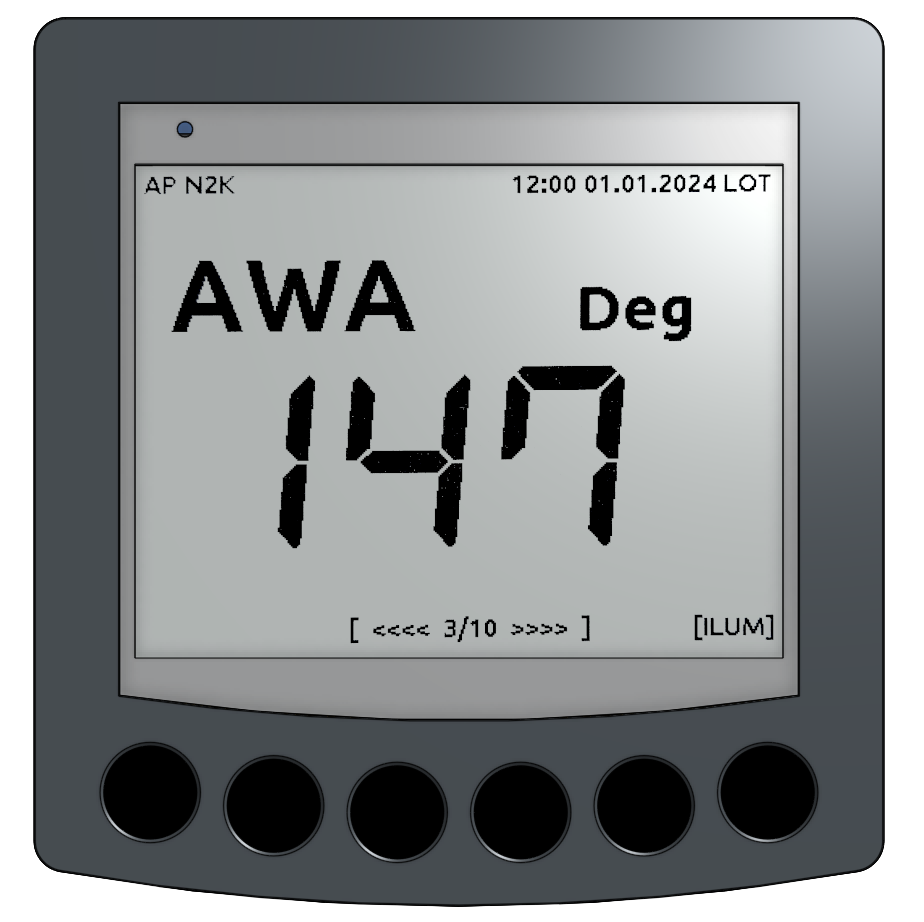
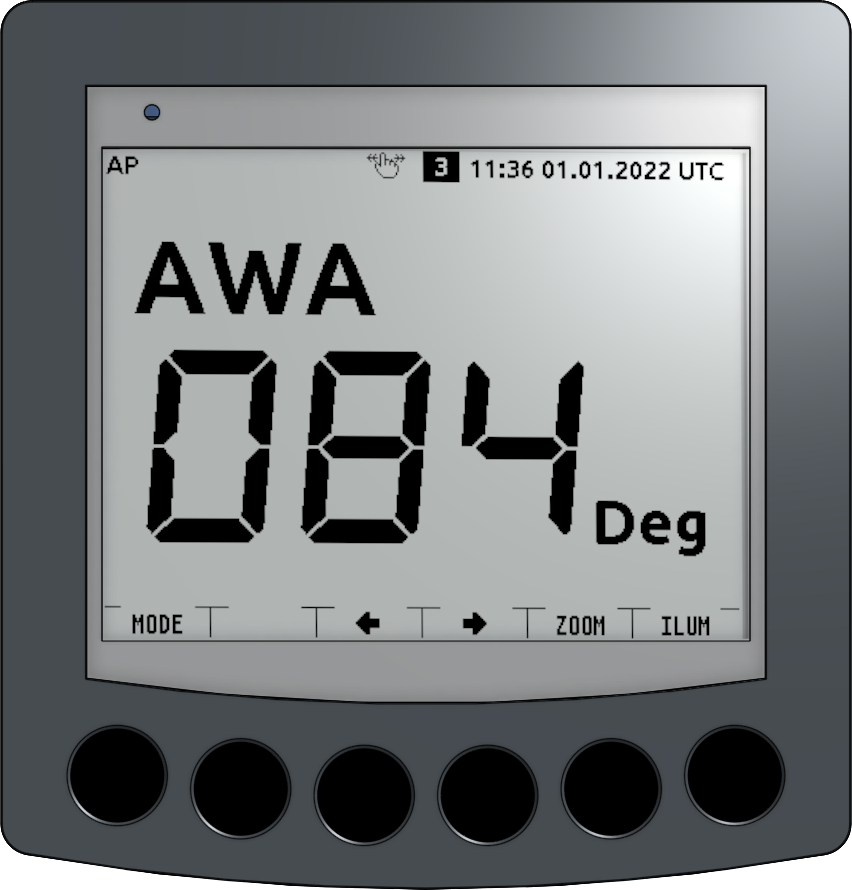
Actualise page OneValue, TwoValue, WindValue

diff --git a/docs/usermanual/configuration.rst b/docs/usermanual/configuration.rst
@@ -866,20 +866,51 @@ Abb.: Seite mit 4 Anzeigewerten
 OneValue
 ^^^^^^^^
 
-.. image:: /pics/OBP60_OneValue_tr.png
-             :scale: 30%
+.. list-table::
+   :widths: 50 50
+   :class: borderless
+
+   * - .. image:: ../pics/OBP60_OneValue.png
+          :scale: 30%
+     - .. image:: ../pics/OBP60_OneValue2.png
+          :scale: 30%
+
 Abb.: Anzeige OneValue
 
 Bei der OneValue-Anzeige kann ein beliebiger Messwert aus dem Datenpool angezeigt werden. Neben dem Messwert werden der Kurzbezeichner und die Einheit dargestellt.
 
+Über die Taste ``MODE`` kann für bestimmte Datentypen zusätzlich numerischen Anzeige eine grafische Anzeige des Datenverlaufs gewählt werden. Die Anzeige wechselt zwischen drei verschiedenen Anzeigen:
+
+	* großformatige numerische Anzeige des aktuellen Messwertes
+	* Anzeige des Messwertes in der oberern Hälfte der Anzeige und grafisches Diagramm mit dem zeitlichen Verlauf der Messwerte in der unteren Hälfte der Anzeige
+	* vollflächige grafische Anzeige des zeitlichen Verlaufs der Messwerte mit kleiner numerischer Darstellung des aktuellen Messwertes
+
+Die Werteachse wird in Abhängigkeit von den Anzeigedaten dynamisch angepasst.
+
+Das Grafikdiagramm kann den Verlauf der Messwerte über ein auswählbares Zeitintervall anzeigen. Über die Taste ``ZOOM`` kann das Zeitintervall verändert werden. Mit jedem Tastendruck wird das Intervall zwischen [4, 8, 12, 16, 32] Minuten weitergeschaltet. Auf der Zeitachse ist das gewählte Intervall erkennbar. Bei dem Zeitintervall von vier Minuten wird jede Sekunde einer neuer Datenwert ergänzt. Bei größeren Zeitintervallen werden nur jeweils alle 2-8 Sekunden neue Werte angezeigt.
+
+.. note::
+   Die grafische Anzeige wird für diese Datentypen unterstützt: 
+   **AWA**, **AWD**, **AWS**, **COG**, **DBS**, **DBT**, **DPT**, **HDM**, **HDT**, **ROT**, **SOG**, **STW**, **TWA**, **TWD**, **TWS**, **WTEMP**.
+   Sollte für die OneValue-Anzeige ein Datentyp gewählt werden, für den nur eine numerische Anzeige möglich ist, sind die Tasten ``MODE`` und ``ZOOM`` nicht verfügbar.
+
 TwoValue
 ^^^^^^^^
 
-.. image:: /pics/OBP60_TwoValue_tr.png
-             :scale: 30%
+.. list-table::
+   :widths: 50 50
+   :class: borderless
+
+   * - .. image:: ../pics/OBP60_TwoValue.png
+          :scale: 30%
+     - .. image:: ../pics/OBP60_TwoValue2.png
+           :scale: 30%
+
 Abb.: Anzeige TwoValue
 
 Bei der TwoValue-Anzeige können zwei beliebige Messwerte aus dem Datenpool vertikal übereinander angezeigt werden. Neben den Messwerten werden die Kurzbezeichner und die Einheiten dargestellt.
+
+Die weiteren Funktionen sind identisch mit der Anzeige **OneValue**.
 
 ThreeValue
 ^^^^^^^^^^
@@ -926,6 +957,30 @@ Ein Trendindikator zeigt den Trend an, in welche Richtung sich die Spannung bewe
 	* ``[TRD]`` - Trendanzeige aktivieren oder deaktivieren
 	
 Die Anzeigeseite benötigt folgende Messwerte: **xdrVBat**
+
+WindPlot
+^^^^^^^
+
+.. image:: ../pics/OBP60_WindPlot.png
+             :scale: 30%
+Abb.: Anzeige WindPlot
+
+Diese Seite zeigt den zeitlichen Verlauf von Winddaten grafisch an. Über die Taste ``MODE`` wird zwischen drei verschiedenen Liniendiagrammen umgeschaltet:
+
+	* absolute Windrichtung (wind direction **TWD**/**AWD**)
+	* Windgeschwindigkeit (wind speed **TWS**/**AWS**)
+	* gemeinsame Anzeige von Windrichtung und Windgeschwindigkeit.
+
+Die Werteachse wird in Abhängigkeit von den Anzeigedaten dynamisch angepasst. Zusätzlich zur grafischen Anzeige der Winddaten wird der jeweils aktuellste Wert als Zahl dargestellt.
+
+Mit der Taste ``SRC`` kann man zwischen der Anzeige von wahren und scheinbaren Winddaten (true/apparent) umschalten.
+
+Das Grafikdiagramm kann den Verlauf der Winddaten über ein auswählbares Zeitintervall anzeigen. Über die Taste ``ZOOM`` kann das Zeitintervall verändert werden. Mit jedem Tastendruck wird das Intervall zwischen [4, 8, 12, 16, 32] Minuten weitergeschaltet. Auf der Zeitachse ist das gewählte Intervall erkennbar. Bei dem Zeitintervall von vier Minuten wird jede Sekunde einer neuer Datenwert ergänzt. Bei größeren Zeitintervallen werden nur jeweils alle 2-8 Sekunden neue Werte angezeigt.
+	
+Die Anzeigeseite benötigt folgende Messwerte: **TWD, TWS, AWS**. Der Wert **AWD** wird automatisch berechnet, sofern die Windaten **AWA** und **AWS** vorhanden sind.
+
+.. note::
+	Die Umschaltung zwischen wahren und scheinbaren Winddaten ist nur beim **OBP60** verfügbar. Da das **OBP40** nur zwei Tasten besitzt, muss die Auswahl des Winddatentyps hier im Konfigurationsunterpunkt zur Seitendefinition der Seite ``WindPlot`` vorgenommen werden. Die Auswahl lässt sich am Gerät nicht umstellen.
 
 WindRose
 ^^^^^^^
